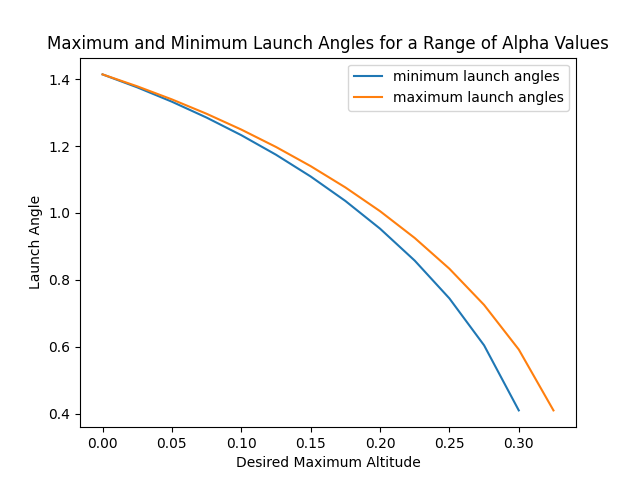
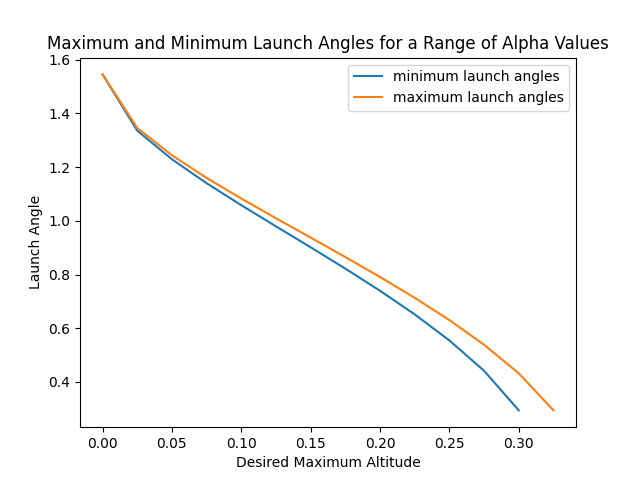
final cleanup and minor error fixes

diff --git a/src/rockettrajectory/launch.py b/src/rockettrajectory/launch.py
@@ -27,20 +27,25 @@ def launch_angle_range(ve_v0, alpha, tol_alpha):
     temp=1 - ((min_alpha/(1+min_alpha))*ve_v0**2)
     if temp>0:
         sin_phi=(1+min_alpha)*np.sqrt(temp)
-        sin_phi1=sin_phi
-        max_angle=arc.arcsin(sin_phi)
-        if max_angle>np.pi/2 or max_angle<0:
+        if sin_phi <= 1:
+            max_angle=arc.arcsin(sin_phi)
+            if max_angle>np.pi/2 or max_angle<0:
+                max_angle=None
+        else:
             max_angle=None
+
     else:
         max_angle = None
         sin_phi1=0
     temp=1 - ((max_alpha/(1+max_alpha))*ve_v0**2)
     if temp>0:
         sin_phi=(1+max_alpha)*np.sqrt(temp)
-        sin_phi2=sin_phi
-        min_angle=arc.arcsin(sin_phi)
-        if min_angle>np.pi/2 or min_angle<0:
-            min_angle = None
+        if sin_phi <=1:
+            min_angle=arc.arcsin(sin_phi)
+            if min_angle>np.pi/2 or min_angle<0:
+                min_angle = None
+        else:
+            min_angle=None
     else:
         min_angle=None
         sin_phi2=0
@@ -71,18 +76,20 @@ def uncertainty(ve_v0,alpha,delta_ve_v0,delta_alpha):
     return condition_number
 
 def min_altitude_ratio(alpha,angle):
-    index = np.where(angle==None)
+    index = [i for i, value in enumerate(angle) if value == None]
     for j in range(len(index)):
-        alpha[index[j]]=None
+        x = index[j]
+        np.put(alpha,x,1000)
     xi=np.argmin(alpha)
     x=alpha[xi]
     angle1 = angle[xi]
     return x,angle1
 
 def max_altitude_ratio(alpha,angle):
-    index = np.where(angle==None)
+    index = [i for i, value in enumerate(angle) if value == None]
     for j in range(len(index)):
-        alpha[index[j]]=None
+        x = index[j]
+        np.put(alpha,x,-1)
     xi=np.argmax(alpha)
     x=alpha[xi]
     angle1 = angle[xi]
@@ -91,9 +98,10 @@ def max_altitude_ratio(alpha,angle):
 def min_velocity_ratio(v,angle):
     """Computes minimum possible velocity ratio for a given target peak altitude.
     """
-    index = np.where(angle==None)
+    index = [i for i, value in enumerate(angle) if value == None]
     for j in range(len(index)):
-        v[index[j]]=None
+        x = index[j]
+        np.put(v,x,1000)
     xi=np.argmin(v)
     x=v[xi]
     angle1 = angle[xi]
@@ -102,10 +110,11 @@ def min_velocity_ratio(v,angle):
 def max_velocity_ratio(v,angle):
     """Computes minimum possible velocity ratio for a given target peak altitude.
     """
-    index = np.where(angle==None)
+    index = [i for i, value in enumerate(angle) if value == None]
     for j in range(len(index)):
-        v[index[j]]=None
-    xi=np.argmin(v)
+        x = index[j]
+        np.put(v,x,-1)
+    xi=np.argmax(v)
     x=v[xi]
     angle1 = angle[xi]
     return x,angle1

diff --git a/examples/driver.py b/examples/driver.py
@@ -26,7 +26,7 @@ def main ():
     plt.savefig("Launch_Alpha_Range")
 
     #make a range of velocities
-    v_range = np.arange(1.22,6.21,0.25)
+    v_range = np.arange(0.02,9.21,0.25)
     #set tolerance and alpha to be held constant
     tol_alpha= 0.04
     alpha = 0.25
@@ -57,9 +57,10 @@ def main ():
     v_error =abs(v_error)* 0.05
     alpha_error =abs(alpha_error)* 0.02
     alpha_max,amax_angle= lnch.max_altitude_ratio(range_alpha,max_lnch_angles)
-    v_min,vmin_angle= lnch.min_velocity_ratio(v_range,min_lnch_angles1)
+    v_min,vmax_angle= lnch.min_velocity_ratio(v_range,max_lnch_angles1)
+    v_max,vmin_angle= lnch.max_velocity_ratio(v_range,min_lnch_angles1)
 
-    print(f'Question 2:   max {max_q2} \n              min {min_q2} \nQuestion 3:max alpha {alpha_max} angle {amax_angle}\nQuestion 4: min velocity {v_min} angle {vmin_angle}\nQuestion 5: Error in ve_v0 {v_error}. Error in alpha {alpha_error}\nUncertanty for fun {lnch.uncertainty(2,0.25,0.05,0.02)}')
+    print(f'Question 2:   max {max_q2} \n              min {min_q2} \nQuestion 3:max alpha {alpha_max} angle {amax_angle}\nQuestion 4: min velocity {v_min} angle {vmax_angle}\n            max velocity {v_max} angle {vmin_angle}\nQuestion 5: Error in ve_v0 {v_error}. Error in alpha {alpha_error}\nUncertanty for fun cn: {lnch.uncertainty(2,0.25,0.05,0.02)}')
 
 
 

diff --git a/src/rockettrajectory/arcsin_while.py b/src/rockettrajectory/arcsin_while.py
@@ -11,7 +11,9 @@ def arcsin(x):
         a radian as a float.
 
     """
-    tol = 1.0e-16
+    if x==0 :
+        return 0
+    tol = 0.5e-5
     x = float(x)
     eps_a = 2*tol
     n=1
@@ -20,7 +22,7 @@ def arcsin(x):
     sum =0.0
     term=0.0
     while eps_a > tol:
-        term=((2*x)**(2*n))/((n**2)*((fact_2n)/(fact_n**2)))
+        term = ((2*x)**(2*n)) / ((n**2)*((fact_2n)/((fact_n)**2)))
         sum += term
         eps_a = np.abs(term/sum)
         n += 1

diff --git a/examples/test.py b/examples/test.py
@@ -4,8 +4,9 @@ def main ():
     ve_v0=2
     alpha=0.25
     tol_alpha= 0.02
+    expected = 0.5931997761496287
     test = lnch.launch_angle(ve_v0,alpha)
-    print("test launch",test)
+    print(f'expected {expected}\ntested   {test}\npass {test==expected}')
 
 if __name__ == "__main__":
     main()
